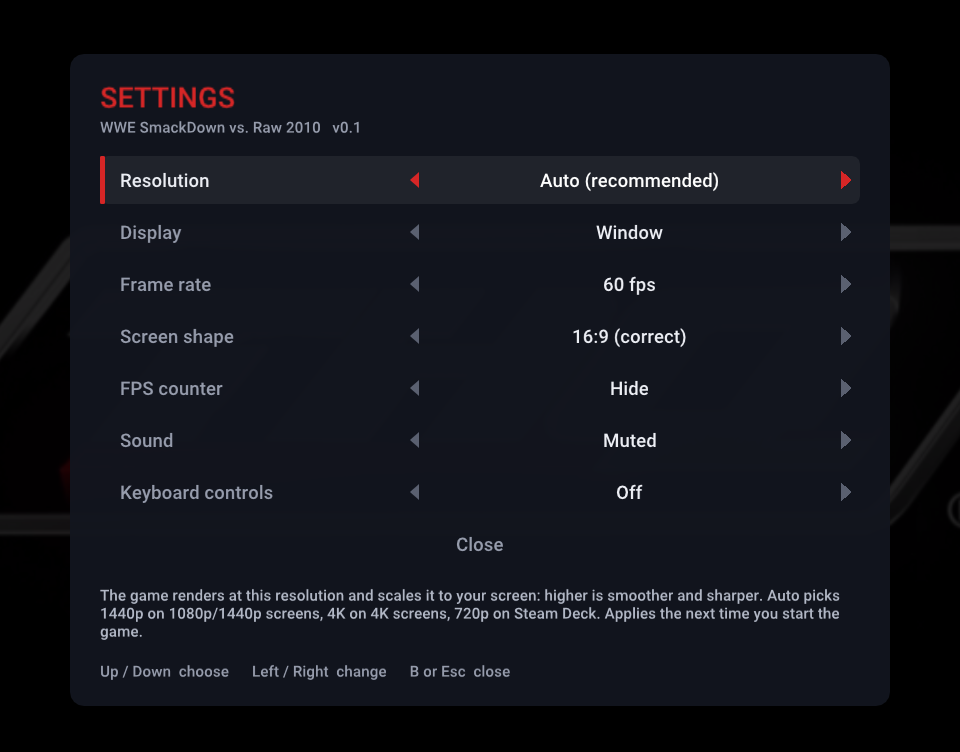
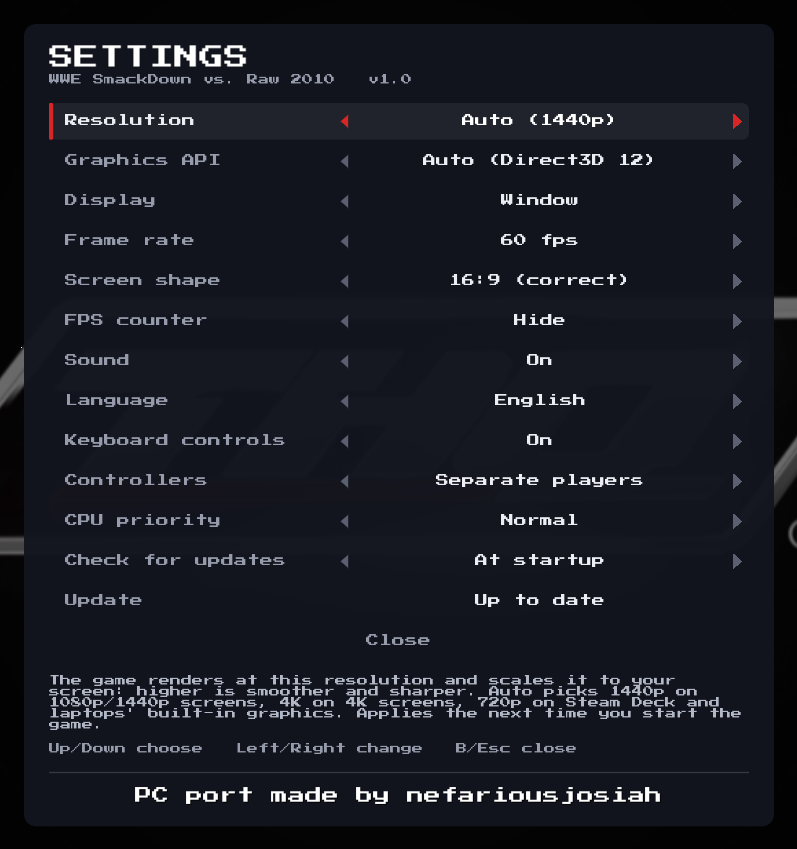
README: new showcase clips, current settings menu, languages
Four new showcase GIFs from fresh gameplay, a screenshot of the current settings menu (pixel font, Language row, v1.0), a 'Play in your language' feature, the 1.0 note instead of 'work in progress', the font credits and the known issues brought up to date.

diff --git a/README.md b/README.md
@@ -19,16 +19,22 @@ loading.
 > game, **F1** (or **Back + Start** on a controller, **View + Menu** on the Steam Deck) opens the
 > settings menu.
 
-> **Work in progress.** This port gets regular updates, and bugs are fixed as they're found and
-> reported, so don't expect a finished port yet. If you run into a problem, please
+> **Version 1.0, still updated.** The port gets regular updates, and bugs are fixed as they're
+> found and reported. If you run into a problem, please
 > [open an issue](https://github.com/nefariousjosiah/WWE-SVR2010-RECOMP/issues) with your graphics
 > card, `game.log` from the game's folder and a screenshot.
 
-![The in-game settings menu (F1, or Back + Start on a controller)](docs/settings-menu.png)
+<p align="center">
+  <img src="docs/settings-menu.png" width="520" alt="The in-game settings menu (F1, or Back + Start on a controller)">
+</p>
 
 ## Showcase
 
 <p align="center">
+  <img src="docs/showcase/stone-cold.gif" width="480" alt="Stone Cold Steve Austin's Royal Rumble entrance">
+  <img src="docs/showcase/wrestlemania.gif" width="480" alt="The WrestleMania 25 stage and pyro">
+  <img src="docs/showcase/flying-elbow.gif" width="480" alt="Shawn Michaels' flying elbow off the top rope onto Kane">
+  <img src="docs/showcase/sweet-chin-music.gif" width="480" alt="Shawn Michaels hits Sweet Chin Music on Kane">
   <img src="docs/showcase/entrance.gif" width="480" alt="Randy Orton's champion entrance">
   <img src="docs/showcase/gts.gif" width="480" alt="CM Punk hits the GO2SLEEP on Randy Orton">
   <img src="docs/showcase/backbreaker.gif" width="480" alt="Randy Orton lifts CM Punk in the corner">
@@ -65,6 +71,9 @@ loading.
   fullscreen or window, 60 or 30 fps, screen shape, FPS counter, sound, **language** (English,
   Spanish, French, German or Italian), keyboard controls, how controllers map to players and CPU
   priority. Saved for next time.
+- **Play in your language:** English, Español, Français, Deutsch or Italiano, the languages on
+  the disc. Pick one under **Language** in the settings menu and press A twice to restart
+  straight into it. (The commentary is English only, as on the disc.)
 - **Updates in the game, when you want them:** a new version is announced at startup and installed
   from the settings menu only if you choose to. Your saves are kept and backed up first (see
   [Updating](#updating)).
@@ -279,7 +288,11 @@ Notes for the Deck:
 
 ## Known issues
 
-None open right now. If you run into something, please
+- **Road to WrestleMania with a created superstar** can crash after the backstage brawl (the
+  second match), so that story can't be finished yet
+  ([#10](https://github.com/nefariousjosiah/WWE-SVR2010-RECOMP/issues/10)). Being looked into.
+
+If you run into something else, please
 [open an issue](https://github.com/nefariousjosiah/WWE-SVR2010-RECOMP/issues) with `game.log` from
 the game's folder.
 
@@ -342,9 +355,10 @@ sources, `tools/` build scripts, `docs/` the images on this page.
 - [re:Blue](https://github.com/zolaware/reblue) (Blue Dragon), the renderer this one is adapted
   from, with [plume](https://github.com/zolaware/plume) and
   [XenosRecomp](https://github.com/zolaware/reblue-XenosRecomp).
-- The settings menu: [Dear ImGui](https://github.com/ocornut/imgui) and the Roboto font;
+- The settings menu: [Dear ImGui](https://github.com/ocornut/imgui), with the Press Start 2P and
+  Roboto fonts;
   [SDL](https://libsdl.org) for controllers and sound.
-- [zstd](https://github.com/facebook/zstd); the Press Start 2P font.
+- [zstd](https://github.com/facebook/zstd).
 - Inside the runtime: [FFmpeg](https://ffmpeg.org) (audio),
   [libmspack](https://github.com/kyz/libmspack) and the other libraries the ReXGlue SDK uses.
 
